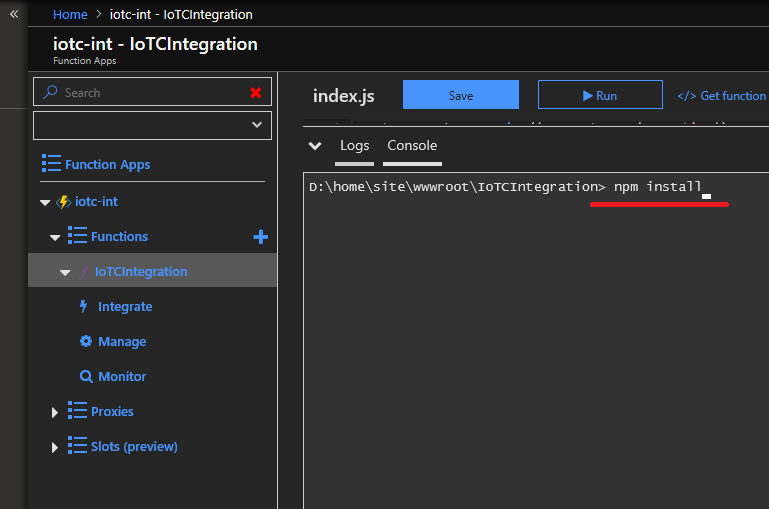
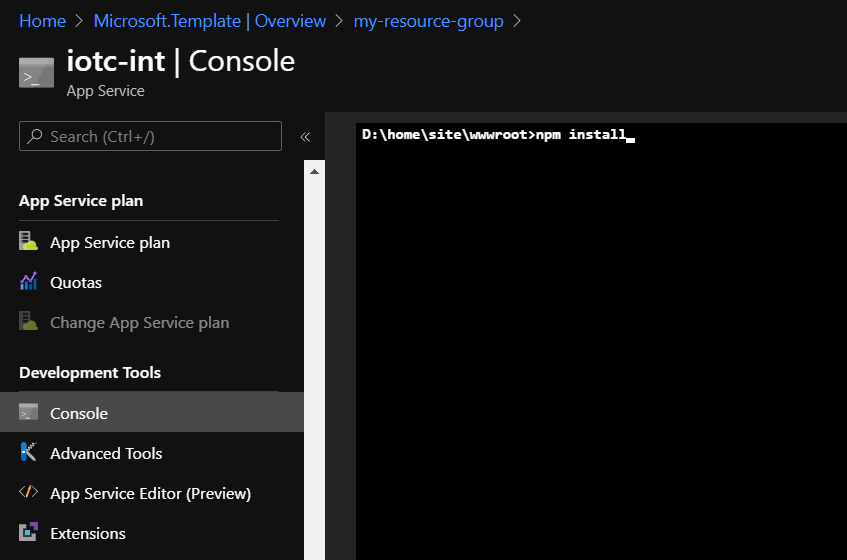
Updating README

diff --git a/README.md b/README.md
@@ -20,17 +20,18 @@ provisioned with the function).
   ![ID Scope and key](assets/scopeIdAndKey.PNG "ID Scope and key")
 
 3. After the deployment is done, install the required NPM packages in the function. To do this,
-go to the Function App that was deployed to your subscription in the `Functions > IoTCIntegration > Console` tab.
+open the App Service that was deployed to your subscription, then navigate to the `Development Tools > Console` section.
 In the console, run the command `npm install` (this command takes ~20 minutes to complete, so feel free to do something else in that time).
+NPM warning messages (starting with `npm WARN`) will not prevent the successful execution of the command.
 
 ![Install packages](assets/npmInstall.PNG "Install packages")
 
-4. After the package installation finishes, the Function App needs to be restarted by clicking the
+4. After the package installation finishes, the App Service needs to be restarted by clicking the
 `Restart` button in `Overview` page.
 
 ![Restart Function App](assets/restart.PNG "Restart Function App")
 
-5. The function is now ready to use. External systems can feed device data through this device bridge and into your IoT Central app by making HTTP POST requests to the function URL. The URL can be obtained in the newly created function App in `Functions > IoTCIntegration > Get function URL`.
+5. The function is now ready to use. External systems can feed device data through this device bridge and into your IoT Central app by making HTTP POST requests to the function URL. The URL can be obtained in the newly created function in `Functions > IoTCIntegration > Code + Test > Get function URL`.
 
 ![Get function URL](assets/getFunctionUrl.PNG "Get function URL")
 
@@ -49,22 +50,30 @@ Messages sent to the device bridge must have the following format in the body:
 }
 ```
 
+Each key in the `measurements` object must match the name of a capability in the device template in the IoT Central application.
+Because this solution doesn't support specifying the interface Id in the message body, if two different interfaces
+have a capability with the same name, the measurement will be presented in both capabilities.
+For legacy applications (2018), the keys in the `measurements` object must match the measurement field names in the Azure IoT Central application.
+
 An optional `timestamp` field can be included in the body, to specify the UTC date and time of the message.
-This field must be in ISO format (e.g., YYYY-MM-DDTHH:mm:ss.sssZ). If `timestamp` is not provided,
+This field must be in ISO format: YYYY-MM-DDTHH:mm:ss.sssZ (for example, `2020-06-08T20:16:54.602Z` is a valid timestamp). If `timestamp` is not provided,
 the current date and time will be used.
 
-> NOTE: `deviceId` must be alphanumeric, lowercase, and may contain hyphens. For preview applications, the keys of the fields in `measurements` must match the name of a capability.
+> NOTE: `deviceId` must be alphanumeric, lowercase, and may contain hyphens.
 
-6. When a message with a new `deviceId` is sent to IoT Central by the device bridge, a new _unassociated device_ will be created:
+6. When a message with a new `deviceId` is sent to IoT Central by the device bridge, a new _unassociated device_ will be created.
+The device will initially be under `Devices > All devices`. Select the device then click `migrate` to choose the appropriate template.
+
+  ![Migrate device](assets/migrate.PNG "Associate device")
+
   - **Legacy applications (2018):** the new device will appear in your IoT Central application in `Device Explorer > Unassociated devices`. Click `Associate` and choose a device template to start receiving incoming measurements from that device in IoT Central.
 
   ![Associate device](assets/associate.PNG "Associate device")
 
-  - **Preview applications:** the device will initially be under `Devices > All devices`. Select the device then click `migrate` to choose the appropriate template.
-
-  ![Migrate device](assets/migrate.PNG "Associate device")
-
 > NOTE: Until the device is associated to a template, HTTP calls to the function will return a 403 error status.
+
+7. Optionally, logging can be enabled using Application Insights. To do so, in the newly created App Service, navigate to `Monitoring > App Service logs`,
+then click `Turn on Application Insights`. Once enabled, logs will be saved for future executions of the function.
 
 ## What is being provisioned? (pricing)
 The custom template in this repository will provision the following Azure resources:
